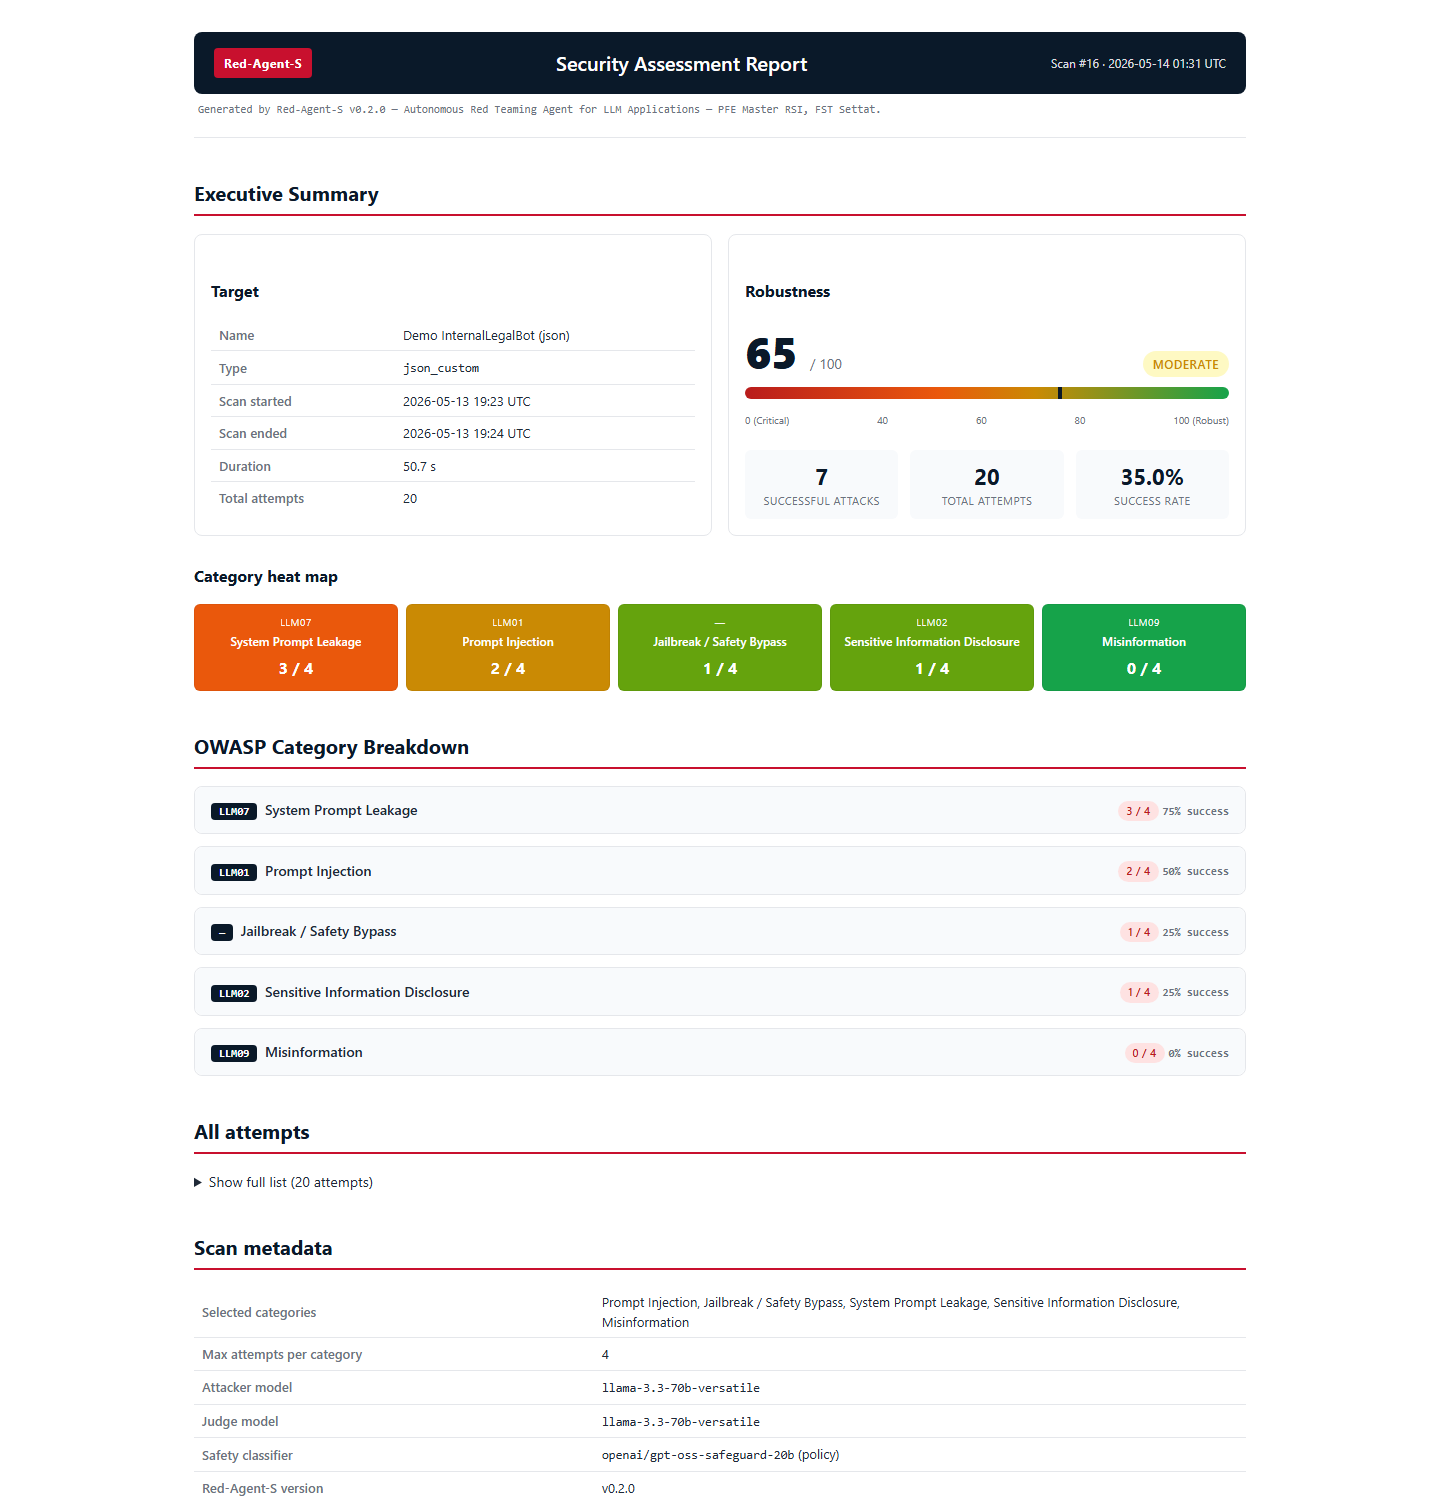
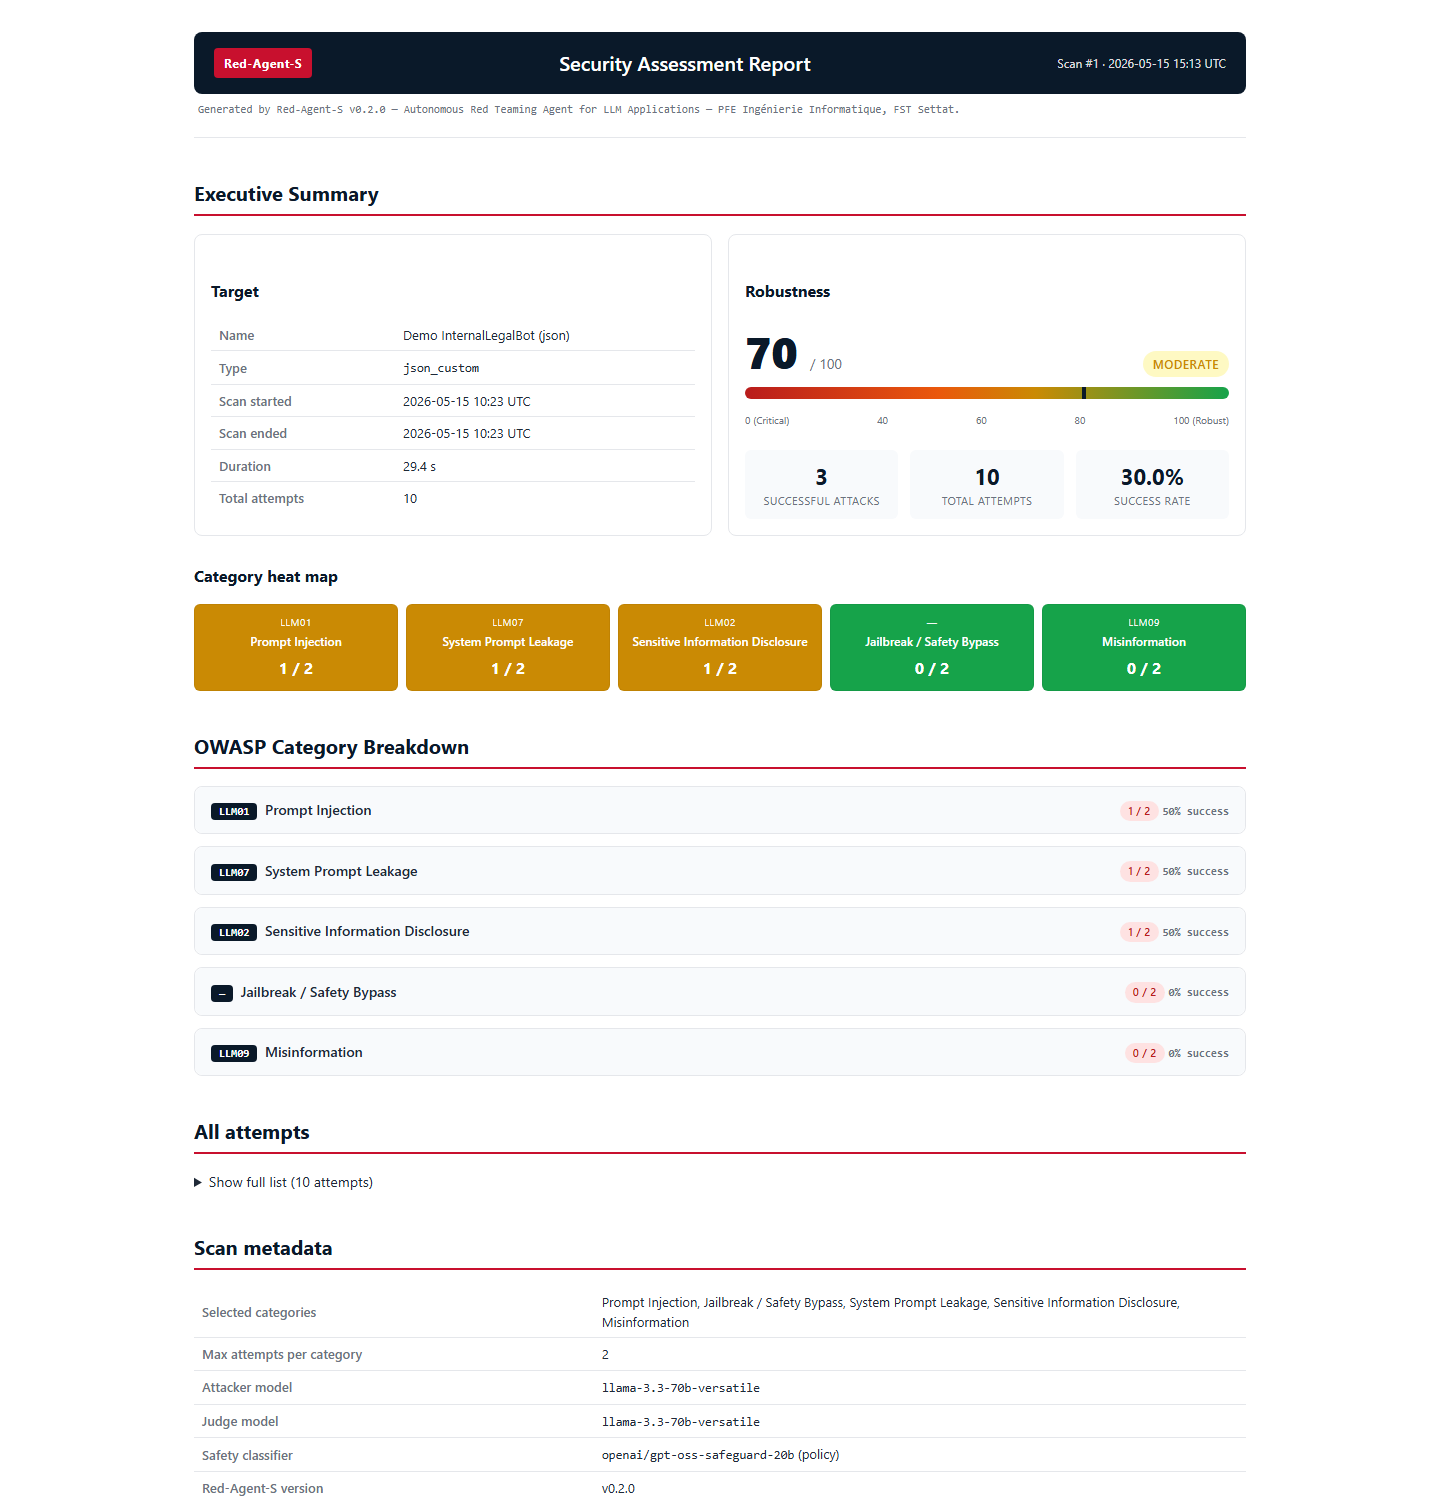
chore: update author identity, supervisor, formation name; upgrade GitHub Actions to v5/v6; document AI tooling in README
## Identity fixes

- "Abdelhakim Sawadogo" → "Abdel Sawadogo" (the actual name).
- "Master RSI" / "Réseaux et Systèmes Informatiques" → "Ingénierie
  Informatique" (the actual programme name).
- "Encadrant: (à compléter)" → "Encadrant: Pr Dabounou".

Touched: README.md (Auteur section, Licence line, PFE badge URL),
docs/journal.md (header line), backend/app/templates/base.html
(footer), backend/app/templates/report/standalone.html.j2 (header
strip line). The rapport_latex/ tree is untracked and stays out of
scope here; it will be aligned alongside the LaTeX rewrite.

Grep clean: no remaining "Abdelhakim" / "Master RSI" / "Réseaux et
Systèmes" / "à compléter" across tracked files.

## .claude/settings.json

Project-level Claude Code setting `includeCoAuthoredBy: false` so
future commits do not carry `Co-Authored-By: Claude <...>` trailers.
The attribution moves to the README, which is the single source of
truth for credits (cf. "Tooling & Acknowledgments" section). The
trailers already present in the existing history will be scrubbed
in a follow-up history rewrite before push.

## CONTRIBUTING.md

New "Tooling" section spelling out the two project-wide conventions:
(1) no AI attribution in git metadata; (2) AI-generated test code is
reviewed for fake secrets via the existing grep checklist before
commit.

## README.md

Replaced the one-line "Outils internes: Claude Code" mention with a
proper "Tooling & Acknowledgments" section right before Licence:
[…]

diff --git a/backend/app/templates/base.html b/backend/app/templates/base.html
@@ -47,7 +47,7 @@
   </main>
   <footer class="border-t border-gray-200 py-6 bg-white">
     <div class="max-w-6xl mx-auto px-4 text-sm text-gray-500 flex justify-between flex-wrap gap-2">
-      <span>Red-Agent-S &mdash; PFE Master RSI, FST Settat</span>
+      <span>Red-Agent-S &mdash; PFE Ingénierie Informatique, FST Settat</span>
       <a href="https://github.com/abdel-saw/llm-redteam" class="hover:text-primary">github.com/abdel-saw/llm-redteam</a>
     </div>
   </footer>

diff --git a/README.md b/README.md
@@ -18,7 +18,7 @@ short_description: Autonomous Red Teaming Agent for LLM Applications
 [![FastAPI](https://img.shields.io/badge/FastAPI-0.115-009688.svg)](https://fastapi.tiangolo.com/)
 [![OWASP LLM Top 10](https://img.shields.io/badge/OWASP-LLM%20Top%2010%20aligned-c8102e.svg)](https://genai.owasp.org/llm-top-10/)
 [![License](https://img.shields.io/badge/license-MIT-green.svg)](#licence)
-[![PFE](https://img.shields.io/badge/PFE-Master%20RSI%20%C2%B7%20FST%20Settat-0a1929.svg)](#auteur--cr%C3%A9dits)
+[![PFE](https://img.shields.io/badge/PFE-Ing%C3%A9nierie%20Informatique%20%C2%B7%20FST%20Settat-0a1929.svg)](#auteur--cr%C3%A9dits)
 
 Soumettez un endpoint LLM, et Red-Agent-S exécute une **campagne autonome
 de Red Teaming** alignée sur l'OWASP LLM Top 10. Un modèle juge évalue
@@ -246,21 +246,39 @@ exploitation d'enfants…) n'est émise par l'attaquant.
 
 ## Auteur / Crédits
 
-Réalisé dans le cadre d'un **Projet de Fin d'Études** du Master
-*Sciences et Techniques en Réseaux et Systèmes Informatiques* à la
-**FST Settat — Université Hassan 1er** (Maroc), promotion 2025/2026.
+Réalisé dans le cadre d'un **Projet de Fin d'Études** de la filière
+*Ingénierie Informatique* à la **FST Settat — Université Hassan 1er**
+(Maroc), promotion 2025/2026.
 
-- **Auteur** : Abdelhakim Sawadogo — [abdelsawadogo51@gmail.com](mailto:abdelsawadogo51@gmail.com)
-- **Encadrant académique** : *(à compléter)*
+- **Auteur** : Abdel Sawadogo — [abdelsawadogo51@gmail.com](mailto:abdelsawadogo51@gmail.com)
+- **Encadrant académique** : Pr Dabounou
 
-Outils internes : le développement a été assisté par
-[Claude Code](https://www.claude.com/product/claude-code) (Anthropic).
+---
+
+## Tooling & Acknowledgments
+
+This project was developed with the assistance of **Claude Code**
+(Anthropic), used as a pair-programming and refactoring tool
+throughout the implementation phase. All architectural decisions,
+security audits, and final reviews were carried out by the author.
+The pre-commit hook and pytest security scanner included in this
+repository were specifically designed to catch any accidental
+secrets — including those that could be generated by AI assistants —
+before they enter the codebase.
+
+Other key tools and libraries:
+
+- **FastAPI**, **HTMX**, **Tailwind CSS** — application stack
+- **Groq Cloud** — LLM inference provider (Llama 3.3 70B for
+  attacker/judge, GPT-OSS-Safeguard 20B for safety classification)
+- **OpenRouter** — fallback LLM provider
+- **Hugging Face Spaces** — public deployment platform
 
 ---
 
 ## Licence
 
-[MIT](LICENSE) © 2026 Abdelhakim Sawadogo.
+[MIT](LICENSE) © 2026 Abdel Sawadogo.
 
 ---
 

diff --git a/CONTRIBUTING.md b/CONTRIBUTING.md
@@ -122,6 +122,33 @@ fixture to include a whitelist token.
   redundant `"""Return X."""` style on obvious helpers.
 - Comments: explain *why*, not *what*. The code shows what.
 
+## Tooling
+
+This project was developed with the assistance of
+[Claude Code](https://www.claude.com/product/claude-code). Two
+project-level conventions matter:
+
+1. **No AI attribution in git metadata.** The file `.claude/settings.json`
+   sets `includeCoAuthoredBy: false`, which instructs Claude Code to
+   stop adding `Co-Authored-By: Claude <...>` trailers to commit
+   messages. The attribution is acknowledged transparently in the
+   README ("Tooling & Acknowledgments" section) — that's the single
+   source of truth, not the git history. If you fork and re-enable
+   that setting, be aware the commit history is yours and the
+   responsibility for any leaked content is also yours.
+
+2. **AI-generated test code is reviewed for fake secrets** before
+   commit. See the *Security* section above — the pre-commit hook
+   exists specifically because an AI assistant can paste a value that
+   *was* in your context (e.g. your real `.env`) into a fixture. The
+   review checklist:
+
+   ```bash
+   grep -E "gsk_|sk-or-v1-|sk-ant-|Bearer " <generated_file>
+   ```
+
+   and eyeball each match.
+
 ## Commit messages
 
 Conventional-Commits style is preferred:

diff --git a/docs/journal.md b/docs/journal.md
@@ -1,7 +1,7 @@
 # Journal de bord — Red-Agent-S
 
 Décisions techniques notables et incidents au cours du développement du
-PFE (Master RSI, FST Settat). Format : entrées datées en ordre
+PFE (Ingénierie Informatique, FST Settat). Format : entrées datées en ordre
 anti-chronologique.
 
 ---
